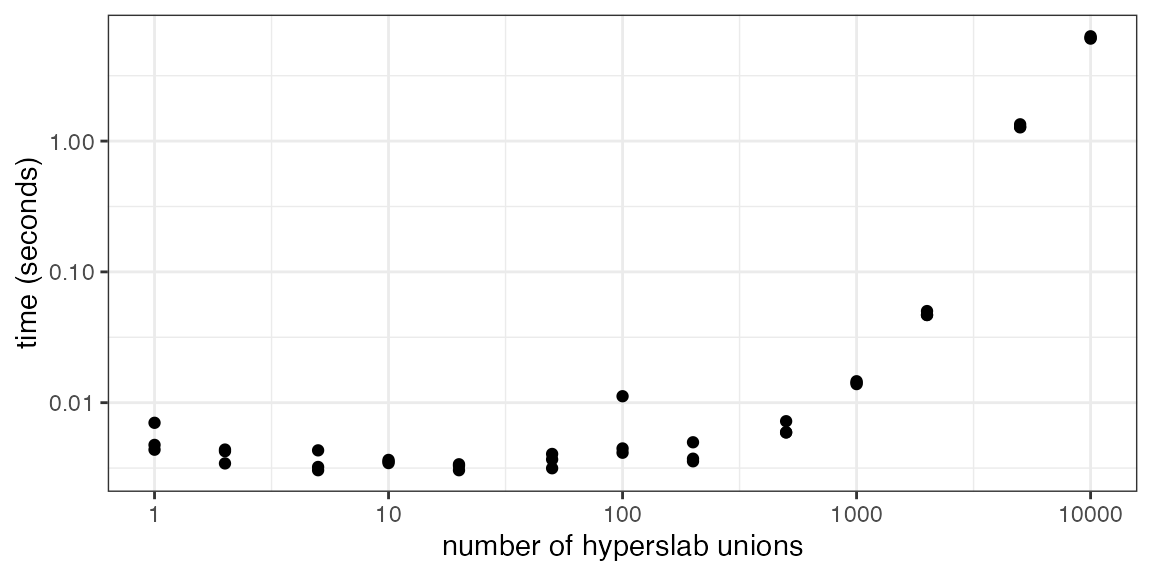
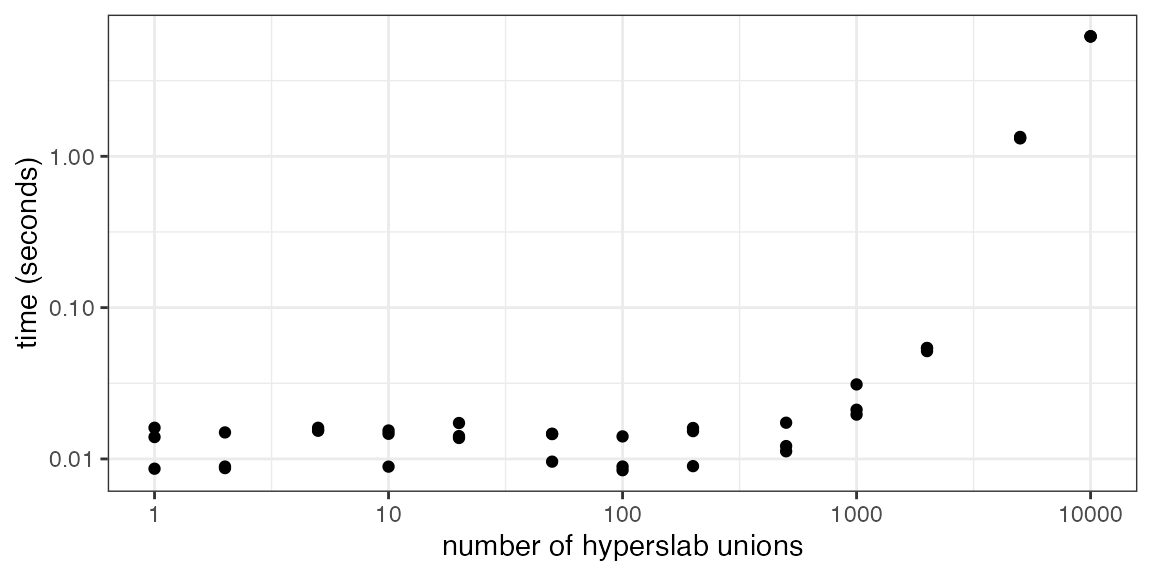
Built site for rhdf5: 2.35.6@3a05ae0

diff --git a/articles/practical_tips.html b/articles/practical_tips.html
@@ -128,7 +128,7 @@
                  index <span class="op">=</span> <span class="fu"><a href="https://rdrr.io/r/base/list.html">list</a></span><span class="op">(</span><span class="cn">NULL</span>, <span class="fl">1</span><span class="op">:</span><span class="fl">10000</span><span class="op">)</span><span class="op">)</span>
 <span class="op">)</span></code></pre></div>
 <pre><code>##    user  system elapsed 
-##   0.030   0.011   0.042</code></pre>
+##   0.031   0.007   0.038</code></pre>
 <p>Next, instead of selecting 10,000 consecutive columns we’ll ask for every other column. This should still return the same amount of data and since our dataset is not chunked involves reading the same volume from disk.</p>
 <div class="sourceCode" id="cb5"><pre class="downlit sourceCode r">
 <code class="sourceCode R"><span class="va">index</span> <span class="op">&lt;-</span> <span class="fu"><a href="https://rdrr.io/r/base/list.html">list</a></span><span class="op">(</span><span class="cn">NULL</span>, <span class="fu"><a href="https://rdrr.io/r/base/seq.html">seq</a></span><span class="op">(</span>from <span class="op">=</span> <span class="fl">1</span>, to <span class="op">=</span> <span class="fl">20000</span>, by <span class="op">=</span> <span class="fl">2</span><span class="op">)</span><span class="op">)</span>
@@ -137,7 +137,7 @@
                  index <span class="op">=</span> <span class="va">index</span><span class="op">)</span>
 <span class="op">)</span></code></pre></div>
 <pre><code>##    user  system elapsed 
-##   0.127   0.016   0.143</code></pre>
+##   0.127   0.009   0.136</code></pre>
 <p>As we can see this is massively slower than the previous example. This is because creating unions of hyperslabs is currently very slow in HDF5 (see <a href="https://forum.hdfgroup.org/t/union-of-non-consecutive-hyperslabs-is-very-slow/5062">Union of non-consecutive hyperslabs is very slow</a> for another report of this behaviour), with the performance penalty increasing exponentially relative to the number of unions. When we use the <code>index</code> argument <em>rhdf5</em> creates a hyperslab for each disjoint set of values we want to extract and then merges them. In our first example this only require the creation of a single 100 <span class="math inline">\(\times\)</span> 10,000 hyperslab, where as in the second case we require 10,000 hyperslabs of dimension 100 <span class="math inline">\(\times\)</span> 1 and 9,999 merge operations.</p>
 </div>
 <div id="using-hyperslab-selections" class="section level2">
@@ -154,7 +154,7 @@
                  stride <span class="op">=</span> <span class="va">stride</span>, block <span class="op">=</span> <span class="va">block</span>, count <span class="op">=</span> <span class="va">count</span><span class="op">)</span>
 <span class="op">)</span></code></pre></div>
 <pre><code>##    user  system elapsed 
-##   0.117   0.007   0.124</code></pre>
+##   0.120   0.006   0.126</code></pre>
 <div class="sourceCode" id="cb9"><pre class="downlit sourceCode r">
 <code class="sourceCode R"><span class="fu"><a href="https://rdrr.io/r/base/identical.html">identical</a></span><span class="op">(</span><span class="va">res2</span>, <span class="va">res3</span><span class="op">)</span></code></pre></div>
 <pre><code>## [1] TRUE</code></pre>
@@ -179,8 +179,8 @@
                            FUN.VALUE <span class="op">=</span> <span class="fu"><a href="https://rdrr.io/r/base/integer.html">integer</a></span><span class="op">(</span>length <span class="op">=</span> <span class="fl">100</span><span class="op">)</span>, 
                            name <span class="op">=</span> <span class="st">'counts'</span><span class="op">)</span><span class="op">)</span></code></pre></div>
 <pre><code>##    user  system elapsed 
-## 215.857  47.518 264.172</code></pre>
-<p>This is clearly a terrible idea, it takes ages! For reference, using the <code>index</code> argument with this set of columns takes 2.039 seconds. This poor performance is driven by two things:</p>
+## 212.552  48.724 262.215</code></pre>
+<p>This is clearly a terrible idea, it takes ages! For reference, using the <code>index</code> argument with this set of columns takes 2.059 seconds. This poor performance is driven by two things:</p>
 <ol style="list-style-type: decimal">
 <li>Our dataset had no chunking applied to it when it was created. This means for each access the entire dataset is read from disk, which we end up doing 10,000 times.</li>
 <li>
@@ -198,7 +198,7 @@
                            FUN.VALUE <span class="op">=</span> <span class="fu"><a href="https://rdrr.io/r/base/integer.html">integer</a></span><span class="op">(</span>length <span class="op">=</span> <span class="fl">100</span><span class="op">)</span>, 
                            name <span class="op">=</span> <span class="st">'counts_chunked'</span><span class="op">)</span><span class="op">)</span></code></pre></div>
 <pre><code>##    user  system elapsed 
-##  41.842   3.228  45.150</code></pre>
+##  41.256   3.161  44.457</code></pre>
 <p>This is still quite slow, and the remaining time is being spent on the overheads associated with multiple calls to <code><a href="../reference/h5_read.html">h5read()</a></code>. To reduce these the function <code>f2()</code><a href="#fn2" class="footnote-ref" id="fnref2"><sup>2</sup></a> defined below splits the list of columns we want to return into sets grouped by the parameter <code>block_size</code>. In the default case this means any columns between 1 &amp; 100 will be placed together, then any between 101 &amp; 200, etc. We then <code>lapply</code> our previous <code>f1()</code> function over these groups. The effect here is to reduce the number of calls to <code><a href="../reference/h5_read.html">h5read()</a></code>, while keeping the number of hyperslab unions down by not having too many columns in any one call.</p>
 <div class="sourceCode" id="cb16"><pre class="downlit sourceCode r">
 <code class="sourceCode R"><span class="va">f2</span> <span class="op">&lt;-</span> <span class="kw">function</span><span class="op">(</span><span class="va">block_size</span> <span class="op">=</span> <span class="fl">100</span><span class="op">)</span> <span class="op">{</span>
@@ -208,8 +208,8 @@
 <span class="op">}</span>
 <span class="fu"><a href="https://rdrr.io/r/base/system.time.html">system.time</a></span><span class="op">(</span><span class="fu">f2</span><span class="op">(</span><span class="op">)</span><span class="op">)</span></code></pre></div>
 <pre><code>##    user  system elapsed 
-##   1.875   0.070   1.950</code></pre>
-<p>We can see this has a significant effect, although it’s still an order of magnitude slower than when we were dealing with regularly spaced subsets. The efficiency here will vary based on a number of factors including the size of the dataset chunks and the sparsity of the column index, and you varying the <code>block_size</code> argument will produce differing performances. The plot below shows the timings achived by providing a selection of values to <code>block_size</code>. It suggests the optimal parameter in this case is probably a block size of 1000, which took 1.12 seconds - noticeably faster than when passing all columns to the <code>index</code> argument in a single call.</p>
+##   1.896   0.076   1.973</code></pre>
+<p>We can see this has a significant effect, although it’s still an order of magnitude slower than when we were dealing with regularly spaced subsets. The efficiency here will vary based on a number of factors including the size of the dataset chunks and the sparsity of the column index, and you varying the <code>block_size</code> argument will produce differing performances. The plot below shows the timings achived by providing a selection of values to <code>block_size</code>. It suggests the optimal parameter in this case is probably a block size of 1000, which took 1.1 seconds - noticeably faster than when passing all columns to the <code>index</code> argument in a single call.</p>
 <p><img src="practical_tips_files/figure-html/unnamed-chunk-3-1.png" width="576"></p>
 </div>
 <div id="summary" class="section level2">

diff --git a/reference/index.html b/reference/index.html
@@ -863,6 +863,54 @@ hyperslab definition.</p></td>
           <p><code><a href="H5Pset_lzf.html">H5Pset_lzf()</a></code> </p>
         </td>
         <td><p>Add the LZF filter to the chunk processing pipeline.</p></td>
+      </tr><tr>
+        
+        <td>
+          <p><code><a href="H5P_chunk.html">H5Pset_chunk()</a></code> <code><a href="H5P_chunk.html">H5Pget_chunk()</a></code> </p>
+        </td>
+        <td><p>Get and set the size of the chunks used to store a chunked layout dataset</p></td>
+      </tr><tr>
+        
+        <td>
+          <p><code><a href="H5P_chunk_cache.html">H5Pset_chunk_cache()</a></code> </p>
+        </td>
+        <td><p>Set parameters for the raw data chunk cache</p></td>
+      </tr><tr>
+        
+        <td>
+          <p><code><a href="H5P_layout.html">H5Pset_layout()</a></code> <code><a href="H5P_layout.html">H5Pget_layout()</a></code> </p>
+        </td>
+        <td><p>Get and set the type of storage used to store the raw data for a dataset</p></td>
+      </tr><tr>
+        
+        <td>
+          <p><code><a href="H5Pclose.html">H5Pclose()</a></code> </p>
+        </td>
+        <td><p>Close and release a property list</p></td>
+      </tr><tr>
+        
+        <td>
+          <p><code><a href="H5Pcopy.html">H5Pcopy()</a></code> </p>
+        </td>
+        <td><p>Copy an existing property list to create a new property list</p></td>
+      </tr><tr>
+        
+        <td>
+          <p><code><a href="H5Pcreate.html">H5Pcreate()</a></code> </p>
+        </td>
+        <td><p>Create a new HDF5 property list</p></td>
+      </tr><tr>
+        
+        <td>
+          <p><code><a href="H5Pget_class.html">H5Pget_class()</a></code> </p>
+        </td>
+        <td><p>Return the property list class identifier for a property list</p></td>
+      </tr><tr>
+        
+        <td>
+          <p><code><a href="H5Pset_fapl_ros3.html">H5Pset_fapl_ros3()</a></code> </p>
+        </td>
+        <td><p>Set the read-only S3 virtual file driver</p></td>
       </tr>
     </tbody>
     </table>

diff --git a/reference/h5_createDataset.html b/reference/h5_createDataset.html
@@ -315,7 +315,7 @@ and compression </dt><dd><p><ul>
     <h2 class="hasAnchor" id="examples"><a class="anchor" href="#examples"></a>Examples</h2>
     <pre class="examples"><span class='r-in'></span>
 <span class='r-in'><span class='fu'><a href='h5_createFile.html'>h5createFile</a></span><span class='op'>(</span><span class='st'>"ex_createDataset.h5"</span><span class='op'>)</span></span>
-<span class='r-msg co'><span class='r-pr'>#&gt;</span> file '/private/var/folders/24/8k48jl6d249_n_qfxwsl6xvm0000gn/T/RtmpTZxdvV/fileb844e4d77f5/reference/ex_createDataset.h5' already exists.</span>
+<span class='r-msg co'><span class='r-pr'>#&gt;</span> file '/private/var/folders/24/8k48jl6d249_n_qfxwsl6xvm0000gn/T/RtmpzTdq9G/filebf77fb7d479/reference/ex_createDataset.h5' already exists.</span>
 <span class='r-in'></span>
 <span class='r-in'><span class='co'># create dataset with compression</span></span>
 <span class='r-in'><span class='fu'>h5createDataset</span><span class='op'>(</span><span class='st'>"ex_createDataset.h5"</span>, <span class='st'>"A"</span>, <span class='fu'><a href='https://rdrr.io/r/base/c.html'>c</a></span><span class='op'>(</span><span class='fl'>5</span>,<span class='fl'>8</span><span class='op'>)</span>, storage.mode <span class='op'>=</span> <span class='st'>"integer"</span>, chunk<span class='op'>=</span><span class='fu'><a href='https://rdrr.io/r/base/c.html'>c</a></span><span class='op'>(</span><span class='fl'>5</span>,<span class='fl'>1</span><span class='op'>)</span>, level<span class='op'>=</span><span class='fl'>6</span><span class='op'>)</span></span>

diff --git a/reference/h5_read.html b/reference/h5_read.html
@@ -284,7 +284,7 @@ whereas in the C-programs (e.g. HDFView) counting starts with 0.</p>
     <h2 class="hasAnchor" id="examples"><a class="anchor" href="#examples"></a>Examples</h2>
     <pre class="examples"><span class='r-in'></span>
 <span class='r-in'><span class='fu'><a href='h5_createFile.html'>h5createFile</a></span><span class='op'>(</span><span class='st'>"ex_hdf5file.h5"</span><span class='op'>)</span></span>
-<span class='r-msg co'><span class='r-pr'>#&gt;</span> file '/private/var/folders/24/8k48jl6d249_n_qfxwsl6xvm0000gn/T/RtmpTZxdvV/fileb844e4d77f5/reference/ex_hdf5file.h5' already exists.</span>
+<span class='r-msg co'><span class='r-pr'>#&gt;</span> file '/private/var/folders/24/8k48jl6d249_n_qfxwsl6xvm0000gn/T/RtmpzTdq9G/filebf77fb7d479/reference/ex_hdf5file.h5' already exists.</span>
 <span class='r-in'></span>
 <span class='r-in'><span class='co'># write a matrix</span></span>
 <span class='r-in'><span class='va'>B</span> <span class='op'>=</span> <span class='fu'><a href='https://rdrr.io/r/base/array.html'>array</a></span><span class='op'>(</span><span class='fu'><a href='https://rdrr.io/r/base/seq.html'>seq</a></span><span class='op'>(</span><span class='fl'>0.1</span>,<span class='fl'>2.0</span>,by<span class='op'>=</span><span class='fl'>0.1</span><span class='op'>)</span>,dim<span class='op'>=</span><span class='fu'><a href='https://rdrr.io/r/base/c.html'>c</a></span><span class='op'>(</span><span class='fl'>5</span>,<span class='fl'>2</span>,<span class='fl'>2</span><span class='op'>)</span><span class='op'>)</span></span>

diff --git a/reference/h5_createAttribute.html b/reference/h5_createAttribute.html
@@ -243,7 +243,7 @@ attribute for you.</p>
     <h2 class="hasAnchor" id="examples"><a class="anchor" href="#examples"></a>Examples</h2>
     <pre class="examples"><span class='r-in'></span>
 <span class='r-in'><span class='fu'><a href='h5_createFile.html'>h5createFile</a></span><span class='op'>(</span><span class='st'>"ex_createAttribute.h5"</span><span class='op'>)</span></span>
-<span class='r-msg co'><span class='r-pr'>#&gt;</span> file '/private/var/folders/24/8k48jl6d249_n_qfxwsl6xvm0000gn/T/RtmpTZxdvV/fileb844e4d77f5/reference/ex_createAttribute.h5' already exists.</span>
+<span class='r-msg co'><span class='r-pr'>#&gt;</span> file '/private/var/folders/24/8k48jl6d249_n_qfxwsl6xvm0000gn/T/RtmpzTdq9G/filebf77fb7d479/reference/ex_createAttribute.h5' already exists.</span>
 <span class='r-in'><span class='fu'><a href='h5_write.html'>h5write</a></span><span class='op'>(</span><span class='fl'>1</span><span class='op'>:</span><span class='fl'>1</span>, <span class='st'>"ex_createAttribute.h5"</span>,<span class='st'>"A"</span><span class='op'>)</span></span>
 <span class='r-in'><span class='va'>fid</span> <span class='op'>&lt;-</span> <span class='fu'><a href='H5Fopen.html'>H5Fopen</a></span><span class='op'>(</span><span class='st'>"ex_createAttribute.h5"</span><span class='op'>)</span></span>
 <span class='r-in'><span class='va'>did</span> <span class='op'>&lt;-</span> <span class='fu'><a href='H5Dopen.html'>H5Dopen</a></span><span class='op'>(</span><span class='va'>fid</span>, <span class='st'>"A"</span><span class='op'>)</span></span>

diff --git a/reference/h5_write.html b/reference/h5_write.html
@@ -311,7 +311,7 @@ in the C-programs (e.g. HDFView) counting starts with 0.</p>
     <h2 class="hasAnchor" id="examples"><a class="anchor" href="#examples"></a>Examples</h2>
     <pre class="examples"><span class='r-in'></span>
 <span class='r-in'><span class='fu'><a href='h5_createFile.html'>h5createFile</a></span><span class='op'>(</span><span class='st'>"ex_hdf5file.h5"</span><span class='op'>)</span></span>
-<span class='r-msg co'><span class='r-pr'>#&gt;</span> file '/private/var/folders/24/8k48jl6d249_n_qfxwsl6xvm0000gn/T/RtmpTZxdvV/fileb844e4d77f5/reference/ex_hdf5file.h5' already exists.</span>
+<span class='r-msg co'><span class='r-pr'>#&gt;</span> file '/private/var/folders/24/8k48jl6d249_n_qfxwsl6xvm0000gn/T/RtmpzTdq9G/filebf77fb7d479/reference/ex_hdf5file.h5' already exists.</span>
 <span class='r-in'></span>
 <span class='r-in'><span class='co'># write a matrix</span></span>
 <span class='r-in'><span class='va'>B</span> <span class='op'>=</span> <span class='fu'><a href='https://rdrr.io/r/base/array.html'>array</a></span><span class='op'>(</span><span class='fu'><a href='https://rdrr.io/r/base/seq.html'>seq</a></span><span class='op'>(</span><span class='fl'>0.1</span>,<span class='fl'>2.0</span>,by<span class='op'>=</span><span class='fl'>0.1</span><span class='op'>)</span>,dim<span class='op'>=</span><span class='fu'><a href='https://rdrr.io/r/base/c.html'>c</a></span><span class='op'>(</span><span class='fl'>5</span>,<span class='fl'>2</span>,<span class='fl'>2</span><span class='op'>)</span><span class='op'>)</span></span>

diff --git a/reference/H5Oopen.html b/reference/H5Oopen.html
@@ -163,7 +163,7 @@ successful. <code>FALSE</code> otherwise.</p>
     <pre class="examples"><span class='r-in'></span>
 <span class='r-in'><span class='co'># create an hdf5 file and write something</span></span>
 <span class='r-in'><span class='fu'><a href='h5_createFile.html'>h5createFile</a></span><span class='op'>(</span><span class='st'>"ex_H5O.h5"</span><span class='op'>)</span></span>
-<span class='r-msg co'><span class='r-pr'>#&gt;</span> file '/private/var/folders/24/8k48jl6d249_n_qfxwsl6xvm0000gn/T/RtmpTZxdvV/fileb844e4d77f5/reference/ex_H5O.h5' already exists.</span>
+<span class='r-msg co'><span class='r-pr'>#&gt;</span> file '/private/var/folders/24/8k48jl6d249_n_qfxwsl6xvm0000gn/T/RtmpzTdq9G/filebf77fb7d479/reference/ex_H5O.h5' already exists.</span>
 <span class='r-in'><span class='fu'><a href='h5_createGroup.html'>h5createGroup</a></span><span class='op'>(</span><span class='st'>"ex_H5O.h5"</span>,<span class='st'>"foo"</span><span class='op'>)</span></span>
 <span class='r-msg co'><span class='r-pr'>#&gt;</span> Can not create group. Object with name 'foo' already exists.</span>
 <span class='r-out co'><span class='r-pr'>#&gt;</span> [1] FALSE</span>

diff --git a/reference/h5ls.html b/reference/h5ls.html
@@ -217,7 +217,7 @@ should also be read with <code>native = TRUE</code></p></td>
     <h2 class="hasAnchor" id="examples"><a class="anchor" href="#examples"></a>Examples</h2>
     <pre class="examples"><span class='r-in'></span>
 <span class='r-in'><span class='fu'><a href='h5_createFile.html'>h5createFile</a></span><span class='op'>(</span><span class='st'>"ex_ls_dump.h5"</span><span class='op'>)</span></span>
-<span class='r-msg co'><span class='r-pr'>#&gt;</span> file '/private/var/folders/24/8k48jl6d249_n_qfxwsl6xvm0000gn/T/RtmpTZxdvV/fileb844e4d77f5/reference/ex_ls_dump.h5' already exists.</span>
+<span class='r-msg co'><span class='r-pr'>#&gt;</span> file '/private/var/folders/24/8k48jl6d249_n_qfxwsl6xvm0000gn/T/RtmpzTdq9G/filebf77fb7d479/reference/ex_ls_dump.h5' already exists.</span>
 <span class='r-in'></span>
 <span class='r-in'><span class='co'># create groups</span></span>
 <span class='r-in'><span class='fu'><a href='h5_createGroup.html'>h5createGroup</a></span><span class='op'>(</span><span class='st'>"ex_ls_dump.h5"</span>,<span class='st'>"foo"</span><span class='op'>)</span></span>

diff --git a/reference/h5_dump.html b/reference/h5_dump.html
@@ -223,7 +223,7 @@ dataset header information (<code>load=FALSE</code>).</p>
     <h2 class="hasAnchor" id="examples"><a class="anchor" href="#examples"></a>Examples</h2>
     <pre class="examples"><span class='r-in'></span>
 <span class='r-in'><span class='fu'><a href='h5_createFile.html'>h5createFile</a></span><span class='op'>(</span><span class='st'>"ex_ls_dump.h5"</span><span class='op'>)</span></span>
-<span class='r-msg co'><span class='r-pr'>#&gt;</span> file '/private/var/folders/24/8k48jl6d249_n_qfxwsl6xvm0000gn/T/RtmpTZxdvV/fileb844e4d77f5/reference/ex_ls_dump.h5' already exists.</span>
+<span class='r-msg co'><span class='r-pr'>#&gt;</span> file '/private/var/folders/24/8k48jl6d249_n_qfxwsl6xvm0000gn/T/RtmpzTdq9G/filebf77fb7d479/reference/ex_ls_dump.h5' already exists.</span>
 <span class='r-in'></span>
 <span class='r-in'><span class='co'># create groups</span></span>
 <span class='r-in'><span class='fu'><a href='h5_createGroup.html'>h5createGroup</a></span><span class='op'>(</span><span class='st'>"ex_ls_dump.h5"</span>,<span class='st'>"foo"</span><span class='op'>)</span></span>

diff --git a/reference/h5listObjects.html b/reference/h5listObjects.html
@@ -166,7 +166,7 @@ returns NULL.</p>
     <h2 class="hasAnchor" id="examples"><a class="anchor" href="#examples"></a>Examples</h2>
     <pre class="examples"><span class='r-in'></span>
 <span class='r-in'><span class='fu'><a href='h5_createFile.html'>h5createFile</a></span><span class='op'>(</span><span class='st'>"ex_list_identifier.h5"</span><span class='op'>)</span></span>
-<span class='r-msg co'><span class='r-pr'>#&gt;</span> file '/private/var/folders/24/8k48jl6d249_n_qfxwsl6xvm0000gn/T/RtmpTZxdvV/fileb844e4d77f5/reference/ex_list_identifier.h5' already exists.</span>
+<span class='r-msg co'><span class='r-pr'>#&gt;</span> file '/private/var/folders/24/8k48jl6d249_n_qfxwsl6xvm0000gn/T/RtmpzTdq9G/filebf77fb7d479/reference/ex_list_identifier.h5' already exists.</span>
 <span class='r-in'></span>
 <span class='r-in'><span class='co'># create groups</span></span>
 <span class='r-in'><span class='fu'><a href='h5_createGroup.html'>h5createGroup</a></span><span class='op'>(</span><span class='st'>"ex_list_identifier.h5"</span>,<span class='st'>"foo"</span><span class='op'>)</span></span>

diff --git a/reference/H5Ldelete.html b/reference/H5Ldelete.html
@@ -156,7 +156,7 @@ location identifier (file or group).</p></td>
     <pre class="examples"><span class='r-in'></span>
 <span class='r-in'><span class='co'># create an hdf5 file and a group</span></span>
 <span class='r-in'><span class='fu'><a href='h5_createFile.html'>h5createFile</a></span><span class='op'>(</span><span class='st'>"ex_H5L.h5"</span><span class='op'>)</span></span>
-<span class='r-msg co'><span class='r-pr'>#&gt;</span> file '/private/var/folders/24/8k48jl6d249_n_qfxwsl6xvm0000gn/T/RtmpTZxdvV/fileb844e4d77f5/reference/ex_H5L.h5' already exists.</span>
+<span class='r-msg co'><span class='r-pr'>#&gt;</span> file '/private/var/folders/24/8k48jl6d249_n_qfxwsl6xvm0000gn/T/RtmpzTdq9G/filebf77fb7d479/reference/ex_H5L.h5' already exists.</span>
 <span class='r-in'><span class='fu'><a href='h5_createGroup.html'>h5createGroup</a></span><span class='op'>(</span><span class='st'>"ex_H5L.h5"</span>,<span class='st'>"/foo"</span><span class='op'>)</span></span>
 <span class='r-out co'><span class='r-pr'>#&gt;</span> [1] TRUE</span>
 <span class='r-in'></span>

diff --git a/reference/h5_createGroup.html b/reference/h5_createGroup.html
@@ -174,7 +174,7 @@ top level groups do not exists.</p></td>
     <h2 class="hasAnchor" id="examples"><a class="anchor" href="#examples"></a>Examples</h2>
     <pre class="examples"><span class='r-in'></span>
 <span class='r-in'><span class='fu'><a href='h5_createFile.html'>h5createFile</a></span><span class='op'>(</span><span class='st'>"ex_createGroup.h5"</span><span class='op'>)</span></span>
-<span class='r-msg co'><span class='r-pr'>#&gt;</span> file '/private/var/folders/24/8k48jl6d249_n_qfxwsl6xvm0000gn/T/RtmpTZxdvV/fileb844e4d77f5/reference/ex_createGroup.h5' already exists.</span>
+<span class='r-msg co'><span class='r-pr'>#&gt;</span> file '/private/var/folders/24/8k48jl6d249_n_qfxwsl6xvm0000gn/T/RtmpzTdq9G/filebf77fb7d479/reference/ex_createGroup.h5' already exists.</span>
 <span class='r-in'></span>
 <span class='r-in'><span class='co'># create groups</span></span>
 <span class='r-in'><span class='fu'>h5createGroup</span><span class='op'>(</span><span class='st'>"ex_createGroup.h5"</span>,<span class='st'>"foo"</span><span class='op'>)</span></span>
